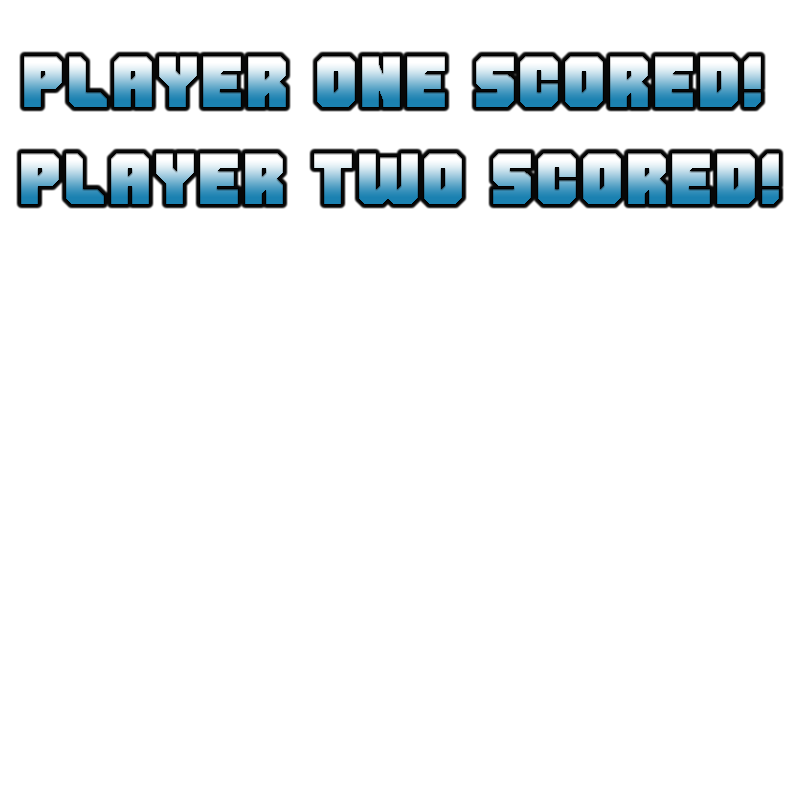
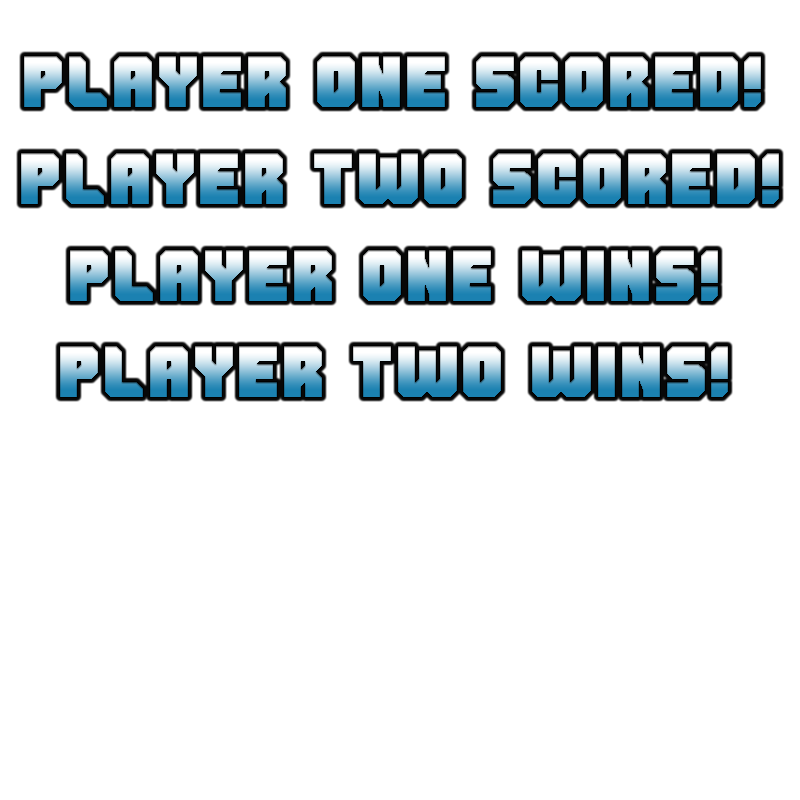
Minor changes/fixxes - Mark

Changed region(s): [[0.0625, 0.2812, 0.9375, 0.5]]

diff --git a/Prototype/Assets/Assets/Scripts/Game_Controller.cs b/Prototype/Assets/Assets/Scripts/Game_Controller.cs
@@ -8,11 +8,9 @@ public class Game_Controller : MonoBehaviour {
     public int Player1Score = 0;
     public int Player2Score = 0;
 	
-	// Stores player score as a string
+	// Stores players scores as strings
     public Text Player1ScoreTxt;
     public Text Player2ScoreTxt;
-    // Stores Winning player text
-    //public Text WinningPlayer;
     // Timer varibles
     public Text MatchTimerTxt;
     [SerializeField]
@@ -29,19 +27,23 @@ public class Game_Controller : MonoBehaviour {
 	
 	void Update ()
     {
-		if (Player1Score == 5)
+		if (timer <= 0)
         {
-            print("Player1 Wins");
+            if (Player1Score == Player2Score)
+            {
+                print("Draw");
+            }
+            if (Player1Score > Player2Score)
+            {
+                print("Player One Wins!");
+            }
+            if (Player1Score < Player2Score)
+            {
+                print("Player Two Wins");
+            }
         }
         
-        if (Player2Score == 5)
-        {
-            print("Player2 Wins");
-        }
-        if (Input.GetKeyUp("b"))
-            {
-                PlayerTwoScored();
-            }
+
         // Updates timer, sorts into mins and secs, updates 'MatchTimerTxt'
         timer -= Time.deltaTime;
         int minutes = (int)timer / 60;
